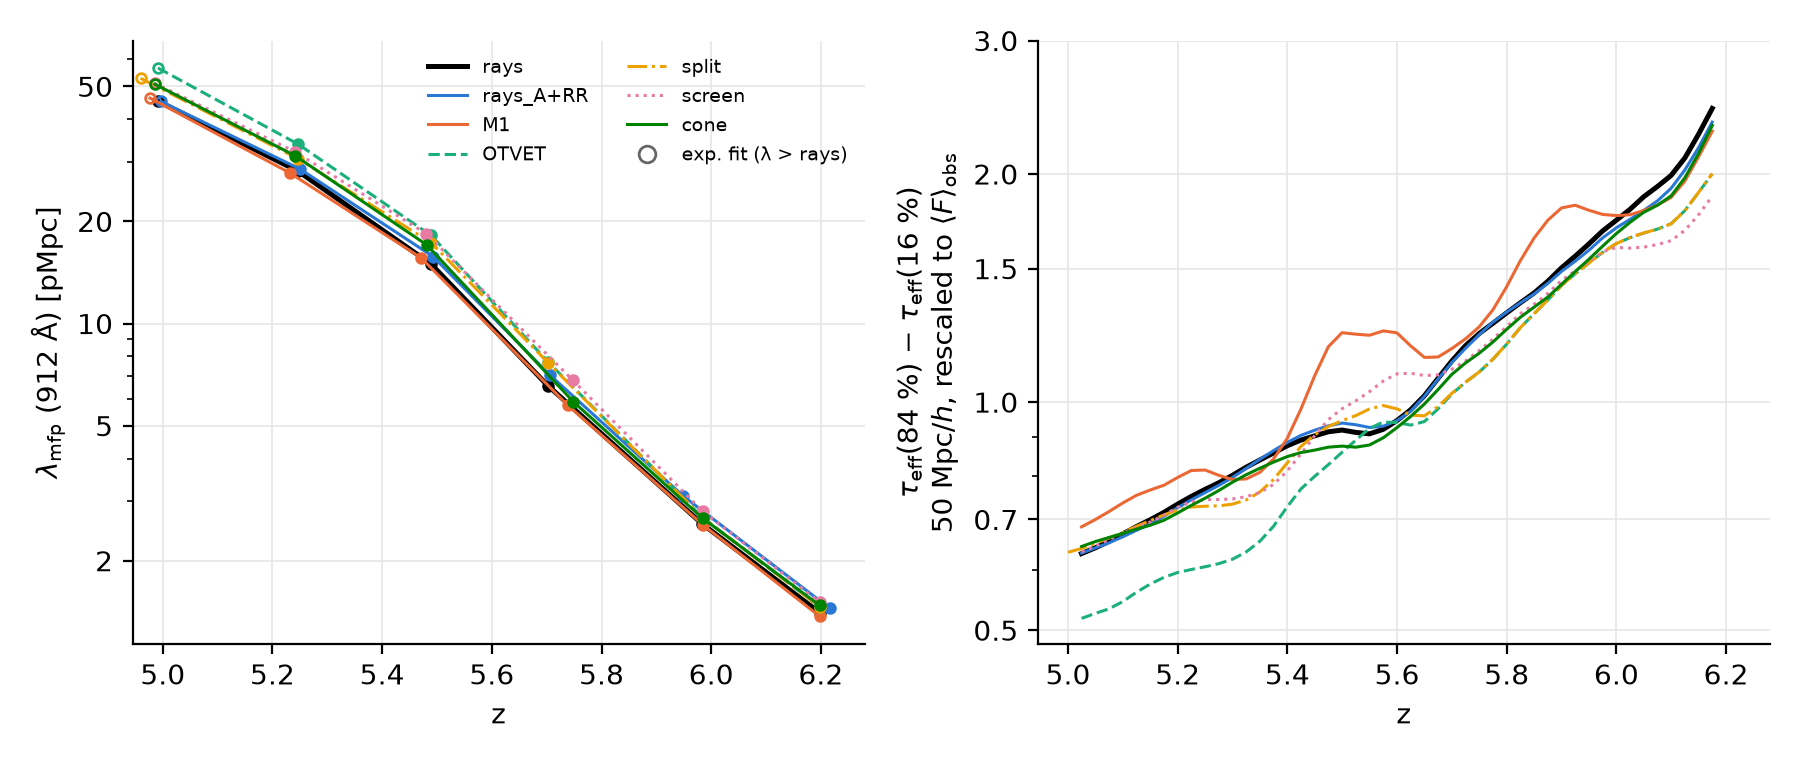
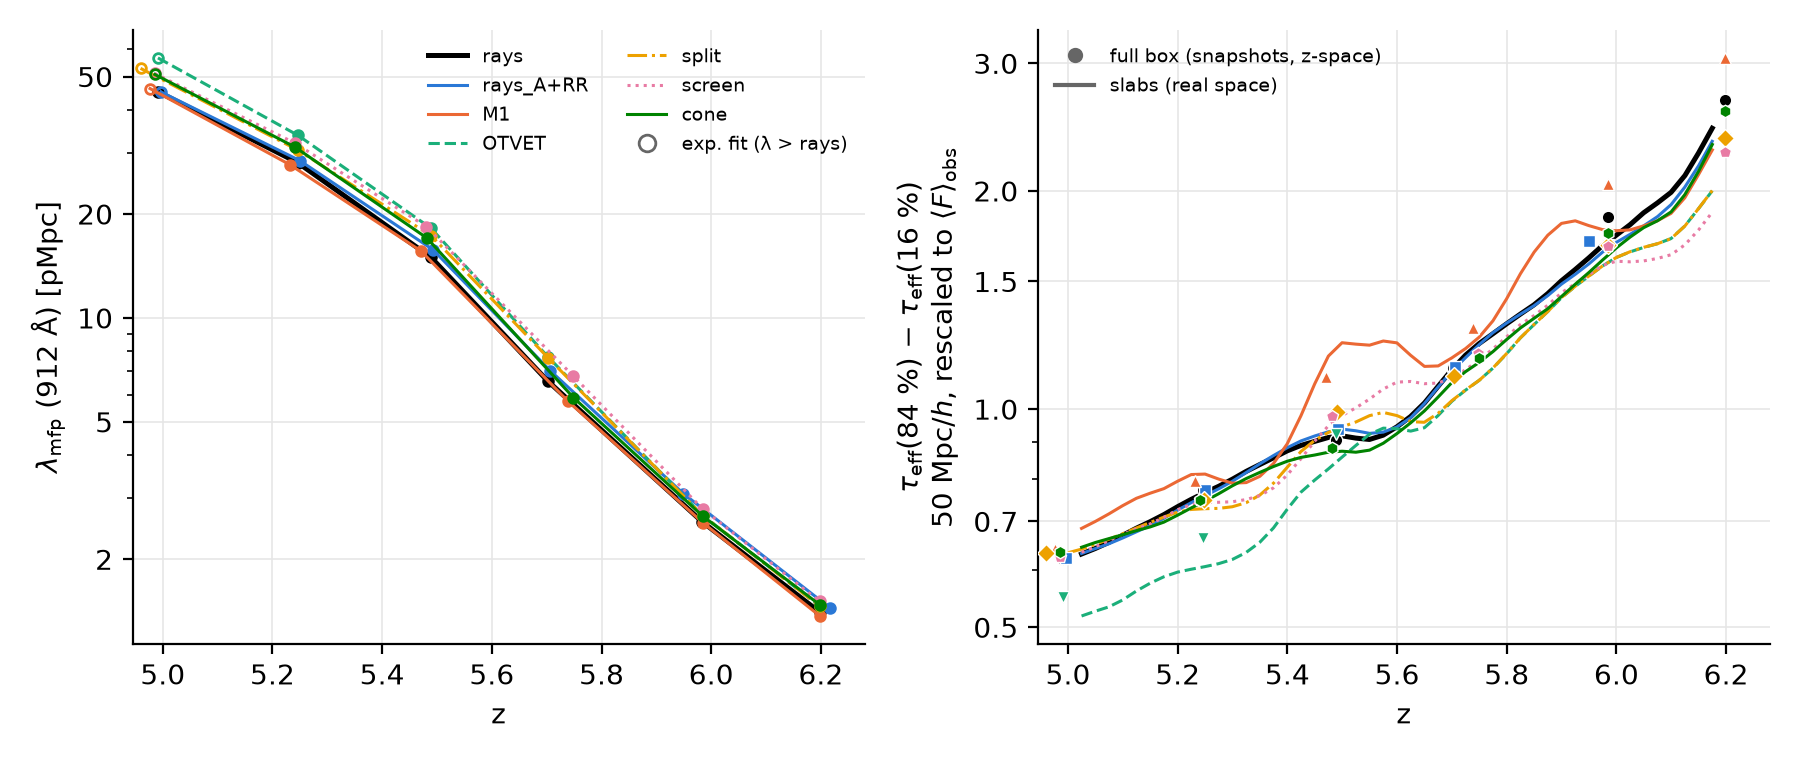
taueff_z.py --full: the full-box snapshot values over the slab curves; A.6: raw slab level 13-22 % above the full box (real vs redshift space), ratios agree within 2-3 % except M1 at z >= 6 (slab sampling)
Claude-Session: https://claude.ai/code/session_01VFiZmUVb5p1e8vvbjwbhqk

diff --git a/tools/analysis/taueff_z.py b/tools/analysis/taueff_z.py
@@ -31,6 +31,10 @@ taueff_mfp_width.png: lambda_mfp of every run at the snapshots (left; open
 symbols where the exponential fit stands in) beside the 84-16 % width of
 the raw tau_eff against z (right).
 
+--full FILE (taueff_plot.py's taueff.txt): the full-box values at the
+snapshots (3 x 8192 random skewers, redshift space, 50 Mpc/h joined
+segments) as filled markers on every panel, for comparison with the slabs.
+
 --norm: the same figures (suffix _A) for tau rescaled per frame by A so that
 <F> of the slab pixels equals Bosman+22's mean transmission at the frame's z
 (data/igm/igm_z5_6.txt, Table 4; taueff_slabs.py; z <= 6.2 only). The
@@ -72,6 +76,23 @@ def read_igm(path):
     return np.array(z)[o], np.array(tau)[o], np.array(lam)[o], np.array(fit)[o]
 
 
+def read_full(path, norm):
+    """taueff_plot.py's taueff.txt: label -> (z, tau at 5..95 % of the 50 Mpc/h
+    segments, raw or rescaled)."""
+    out = {}
+    if not path:
+        return out
+    for line in open(path):
+        if line.startswith("#"):
+            continue
+        t = line.split()
+        if len(t) != 27:          # the CDF block that follows has other columns
+            continue
+        p = [float(v) for v in (t[22:27] if norm else t[17:22])]
+        out.setdefault(t[0], []).append([float(t[1])] + p)
+    return {k: np.array(sorted(v)) for k, v in out.items()}
+
+
 def smooth121(z, p):
     """[1, 2, 1]/4 over frames along axis 0, the end frames dropped."""
     return z[1:-1], 0.25 * p[:-2] + 0.5 * p[1:-1] + 0.25 * p[2:]
@@ -89,6 +110,7 @@ def main():
     ap.add_argument("--outdir", required=True)
     ap.add_argument("--dpi", type=int, default=200)
     ap.add_argument("--norm", action="store_true", help="tau rescaled to Bosman+22's mean flux")
+    ap.add_argument("--full", default=None, help="taueff_plot.py's taueff.txt: full-box snapshot markers")
     a = ap.parse_args()
     sfx = "_A" if a.norm else ""
     kind = "rescaled to $\\langle F\\rangle_{\\rm obs}$" if a.norm else "raw"
@@ -103,6 +125,8 @@ def main():
         lab, _, js = spec.partition(":")
         zs, ps = read_slabs(os.path.join(a.slabs, f"{lab}_slabs.txt"), a.norm)
         runs.append((lab, zs, ps, read_igm(js)))
+    full = read_full(a.full, a.norm)
+    fr0 = full.get(runs[0][0])
 
     fig, ax = plt.subplots(2, 2, figsize=(9.0, 7.0))
     (a0, a1), (a2, a3) = ax
@@ -125,8 +149,19 @@ def main():
                                 label=f"{lab} 16-84 %")
             a0.plot(z, med, color=c, ls=ls, lw=lw, label=lab)
             k = (zi >= z.min() - 0.02) & (zi <= z.max() + 0.02)
-            if not a.norm:
+            if not a.norm and not full:
                 a0.plot(zi[k], ti[k], color=c, marker="o", ms=3.5, mfc="none", ls="none")
+            fb = full.get(lab)
+            if fb is not None:
+                fb = fb[np.all(np.isfinite(fb[:, 1:]), axis=1)]
+                mk = dict(color=c, marker="os^vDph"[ir % 7], ms=4.5, ls="none", mec="white", mew=0.5, zorder=5)
+                a0.plot(fb[:, 0], fb[:, 3], **mk)
+                if fr0 is not None:
+                    g = fr0[np.isfinite(fr0[:, 3])]
+                    ref = np.exp(np.interp(fb[:, 0], g[:, 0], np.log(g[:, 3]), left=np.nan, right=np.nan))
+                    a1.plot(fb[:, 0], fb[:, 3] / ref, **mk)
+                a2.plot(fb[:, 0], fb[:, 4] - fb[:, 2], **mk)
+                a3.plot(lam_at(fb[:, 0], zi, li), fb[:, 3], **mk)
             a1.plot(z, med / np.interp(z, z0, p0[:, 2]), color=c, ls=ls, lw=lw)
             a2.plot(z, w, color=c, ls=ls, lw=lw)
             a3.plot(lam, med, color=c, ls=ls, lw=lw)
@@ -145,8 +180,12 @@ def main():
                           np.log(ob["v"][k]) - np.log(np.maximum(ob["v"][k] - ob["em"][k], 1e-4))],
                     color="0.4", marker="s", ms=3, mfc="none", ls="none", lw=0.8,
                     label=r"$-\ln\langle F\rangle$ Bosman+22")
-    else:
+    elif not full:
         a0.plot([], [], color="0.4", marker="o", mfc="none", ls="none", label=r"$-\ln\langle F\rangle$ (snapshots)")
+    if full:
+        a0.plot([], [], color="0.4", marker="o", ms=4.5, ls="none",
+                label="full box (snapshots, z-space)")
+        a0.plot([], [], color="0.4", ls="-", label="slabs (real space)")
     a0.set_yscale("log")
     a0.set_ylabel(r"median $\tau_{\rm eff}$ (50 Mpc/$h$, " + kind + ")")
     a0.legend(frameon=False, fontsize=7, ncol=2)
@@ -177,10 +216,10 @@ def main():
     fig.tight_layout()
     fig.savefig(os.path.join(a.outdir, f"taueff_z{sfx}.png"), dpi=a.dpi)
     plt.close(fig)
-    mfp_width_figure(runs, a.outdir, a.dpi, sfx, kind)
+    mfp_width_figure(runs, a.outdir, a.dpi, sfx, kind, full)
 
 
-def mfp_width_figure(runs, outdir, dpi, sfx="", kind="raw"):
+def mfp_width_figure(runs, outdir, dpi, sfx="", kind="raw", full=None):
     """Left: lambda_mfp against z at the snapshots; right: the raw 84-16 % width."""
     import matplotlib.pyplot as plt
     from matplotlib.ticker import ScalarFormatter, NullFormatter
@@ -198,6 +237,15 @@ def mfp_width_figure(runs, outdir, dpi, sfx="", kind="raw"):
         m = np.all(np.isfinite(ps[:, 1:4]), axis=1)
         z, p = smooth121(zs[m], ps[m])
         b1.plot(z, p[:, 3] - p[:, 1], color=c, ls=ls, lw=lw)
+        fb = (full or {}).get(lab)
+        if fb is not None:
+            fb = fb[np.all(np.isfinite(fb[:, 1:]), axis=1)]
+            b1.plot(fb[:, 0], fb[:, 4] - fb[:, 2], color=c, marker="os^vDph"[ir % 7], ms=4.5, ls="none",
+                    mec="white", mew=0.5, zorder=5)
+    if full:
+        b1.plot([], [], color="0.4", marker="o", ms=4.5, ls="none", label="full box (snapshots, z-space)")
+        b1.plot([], [], color="0.4", ls="-", label="slabs (real space)")
+        b1.legend(frameon=False, fontsize=7)
     b0.set_yscale("log")
     b0.set_ylabel(r"$\lambda_{\rm mfp}$ (912 Å) [pMpc]")
     b0.set_yticks([1, 2, 5, 10, 20, 50])

diff --git a/docs/taueff_21cmfast.md b/docs/taueff_21cmfast.md
@@ -234,10 +234,29 @@ by ±2 % against each other.
 ![tau_eff against z](figures/taueff_21cmfast_z.png)
 
 *(a) The median raw τ_eff over 50 Mpc/h against z; the shading is the
-rays' 16–84 % band; circles are −ln⟨F⟩ of all pixels at the snapshots
-(redshift space). (b) The median over the rays' median. (c) The 84−16 %
-width (raw, real space). (d) The median against λ_mfp.* Numbers:
+rays' 16–84 % band. (b) The median over the rays' median. (c) The 84−16 %
+width (raw). (d) The median against λ_mfp. Lines: the slabs (real space).
+Filled markers: the full box at the snapshots (`--full`, Figure 7's
+3 × 8192 random skewers, redshift space).* Numbers:
 `figures/taueff_21cmfast_z.txt`.
+
+**The slabs against the full box** (the markers; the slabs are three
+8-cell planes, about 1.5 % of the volume, in real space):
+
+* **The raw level is offset.** The slab medians are 13–22 % above the
+  full box's (1.05–1.22×). That is real space against redshift space: the
+  calibration slabs need A_rs/A_real ≈ 1.5 to reach the same mean flux,
+  because the voids' outflow stretches them in redshift space and raises
+  their transmission. Once rescaled to a common ⟨F⟩, the two agree within
+  0.03 in the median (A.5).
+* **The ratios between methods agree within 2–3 %**, except M1 at
+  z ≥ 6. There M1 is 5–9 % below the rays in the slabs but only 2 %
+  below in the full box (0.983 at z = 5.98, 0.979 at 6.20), so the slabs'
+  M1 deficit at z ≥ 6 in the table below is mostly sampling.
+* The rescaled widths of the slabs are 0.86–1.05× the full box's. Before
+  z ≈ 6 they are narrower (the real-space offset of A.5 plus the smaller
+  sample); M1's end-of-reionization excess is in both (full box: 1.11
+  against the rays' 0.91 at z ≈ 5.48, +22 %).
 
 | median τ_eff / rays | z 6.2 | 6.0 | 5.8 | 5.6 | 5.4 | 5.2 | 5.03 |
 |---|---|---|---|---|---|---|---|
@@ -252,14 +271,16 @@ width (raw, real space). (d) The median against λ_mfp.* Numbers:
 ("–": that λ lies outside the run's range.)
 
 * **At fixed z** the medians agree within 5 % after z ≈ 5.6. Before that,
-  the OTVET family is 10–15 % more opaque and M1 is 6–9 % more transparent
-  at z ≥ 6.
+  the OTVET family is 10–15 % more opaque (8–12 % in the full box). M1 is
+  6–9 % more transparent at z ≥ 6 in the slabs but only 2 % in the full
+  box.
 * **At fixed λ_mfp** the late-time agreement goes away for the OTVET
   family. Thin OTVET is 11–15 % more opaque than the rays at every λ from 1.4
   to 43 pMpc, because its λ_mfp is 20–25 % longer at the same z and τ. Split
   and screen are 10–16 % more opaque for λ ≤ 10 pMpc and approach the rays
   (+1–4 %) as λ → 40 pMpc. The cone stays within +2–6 %, M1 within −2 to
-  −10 %, and A + RR within 2 %. The cone is again the closest closure.
+  −10 % (the −6 to −10 % at λ ≤ 2.5 pMpc is the slab sampling above; the
+  full box gives about −2 %), and A + RR within 2 %. The cone is again the closest closure.
 * `taueff_mfp_width.png` puts λ_mfp at the snapshots (left; open symbols:
   the exponential fit) beside the raw width (right):
 

diff --git a/docs/STATUS.md b/docs/STATUS.md
@@ -42,7 +42,10 @@
   medians over 50 Mpc/h agree within 5 % at fixed z after z ≈ 5.6. At
   fixed λ_mfp (the user's preferred match) thin OTVET is 11–15 % more
   opaque at every λ, split/screen 10–16 % for λ ≤ 10 pMpc, the cone
-  +2–6 %, M1 −2 to −10 %, A + RR within 2 %.
+  +2–6 %, M1 −2 to −5 % (the slabs' −10 % at z ≥ 6 is slab sampling:
+  the full-box snapshots, now overplotted, give −2 %), A + RR within 2 %.
+  The raw slab level is 13–22 % above the full box's (real against
+  redshift space); the ratios between methods agree within 2–3 %.
 * **Normalised to the mean flux** (`taueff_z.py --norm`, A.6): medians
   within 2 % in every method; the widths keep the ordering (thin OTVET
   16–19 % narrow after z ≈ 5.4, M1 31–34 % broad at z ≈ 5.5–5.6, the cone
